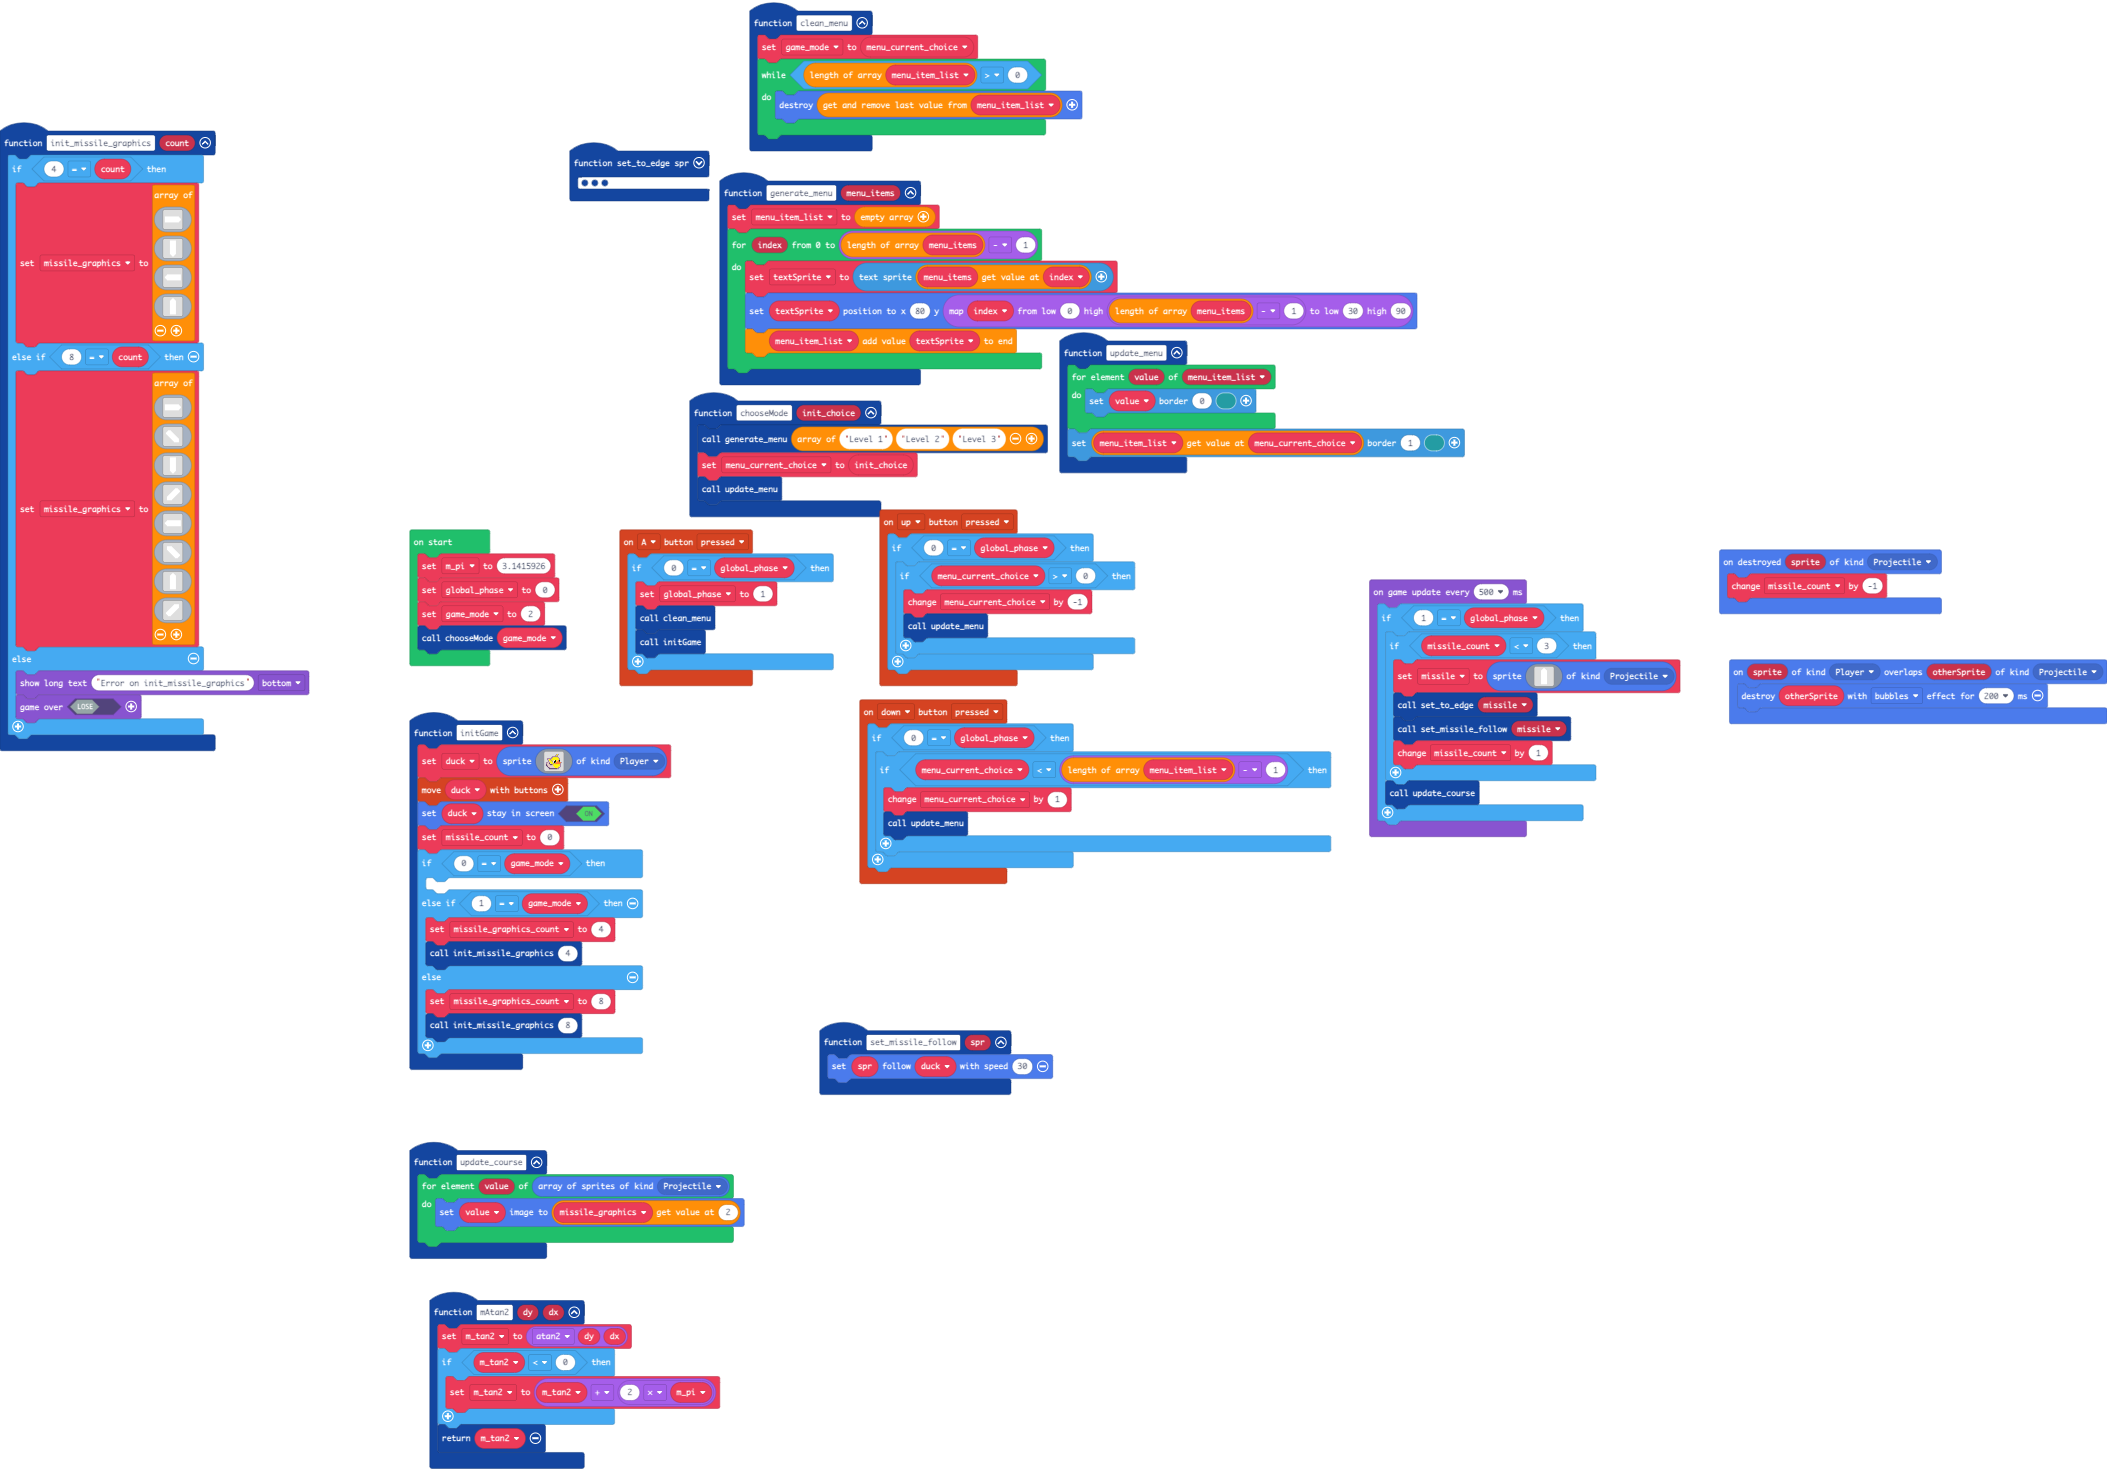
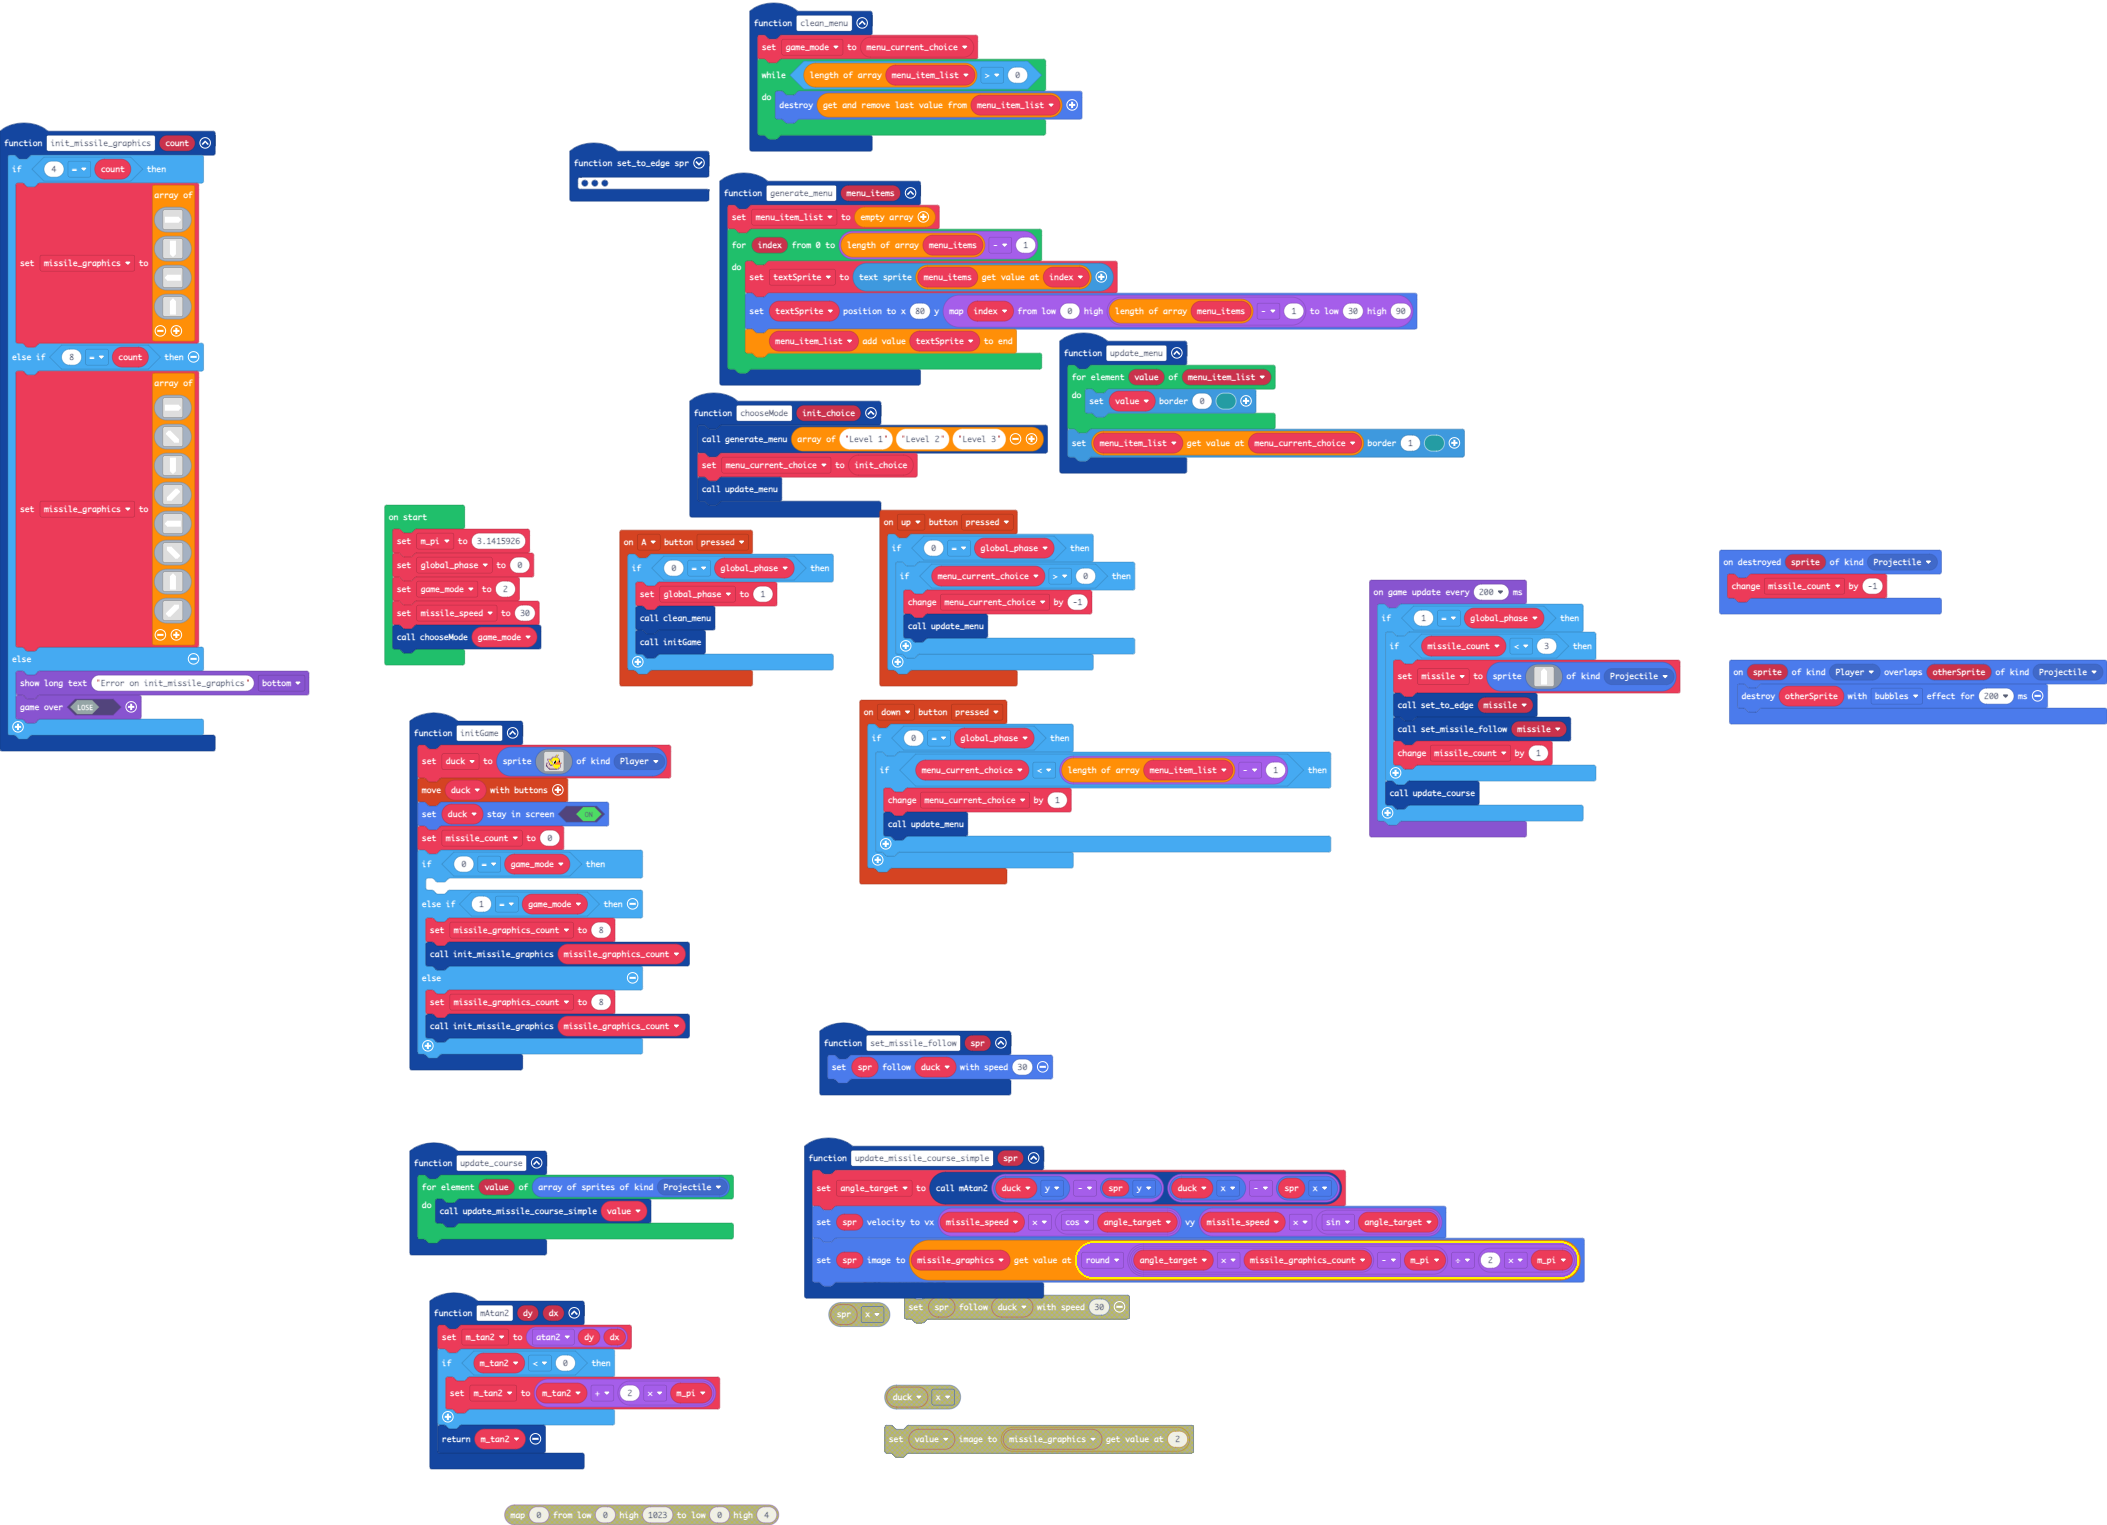
level 2 done

Changed region(s): [[0.1851, 0.0, 1.0, 1.0], [0.0, 0.0624, 0.1542, 0.5305], [0.401, 0.905, 0.5861, 0.9674]]

diff --git a/main.ts b/main.ts
@@ -22,6 +22,11 @@ controller.up.onEvent(ControllerButtonEvent.Pressed, function () {
 function set_missile_follow (spr: Sprite) {
     spr.follow(duck, 30)
 }
+function update_missile_course_simple (spr: Sprite) {
+    angle_target = mAtan2(duck.y - spr.y, duck.x - spr.x)
+    spr.setVelocity(missile_speed * Math.cos(angle_target), missile_speed * Math.sin(angle_target))
+    spr.setImage(missile_graphics[Math.round((angle_target * missile_graphics_count - m_pi) / (2 * m_pi))])
+}
 function chooseMode (init_choice: number) {
     generate_menu(["Level 1", "Level 2", "Level 3"])
     menu_current_choice = init_choice
@@ -298,11 +303,11 @@ function initGame () {
     if (0 == game_mode) {
     	
     } else if (1 == game_mode) {
-        missile_graphics_count = 4
-        init_missile_graphics(4)
+        missile_graphics_count = 8
+        init_missile_graphics(missile_graphics_count)
     } else {
         missile_graphics_count = 8
-        init_missile_graphics(8)
+        init_missile_graphics(missile_graphics_count)
     }
 }
 function set_to_edge (spr: Sprite) {
@@ -336,29 +341,32 @@ controller.down.onEvent(ControllerButtonEvent.Pressed, function () {
 })
 function update_course () {
     for (let value of sprites.allOfKind(SpriteKind.Projectile)) {
-        value.setImage(missile_graphics[2])
+        update_missile_course_simple(value)
     }
 }
 sprites.onDestroyed(SpriteKind.Projectile, function (sprite) {
     missile_count += -1
 })
 let missile: Sprite = null
-let missile_graphics_count = 0
 let missile_count = 0
 let textSprite: TextSprite = null
+let missile_graphics_count = 0
 let missile_graphics: Image[] = []
+let angle_target = 0
 let duck: Sprite = null
 let menu_item_list: TextSprite[] = []
 let menu_current_choice = 0
 let m_tan2 = 0
+let missile_speed = 0
 let game_mode = 0
 let global_phase = 0
 let m_pi = 0
 m_pi = 3.1415926
 global_phase = 0
 game_mode = 2
+missile_speed = 30
 chooseMode(game_mode)
-game.onUpdateInterval(500, function () {
+game.onUpdateInterval(200, function () {
     if (1 == global_phase) {
         if (missile_count < 3) {
             missile = sprites.create(img`
